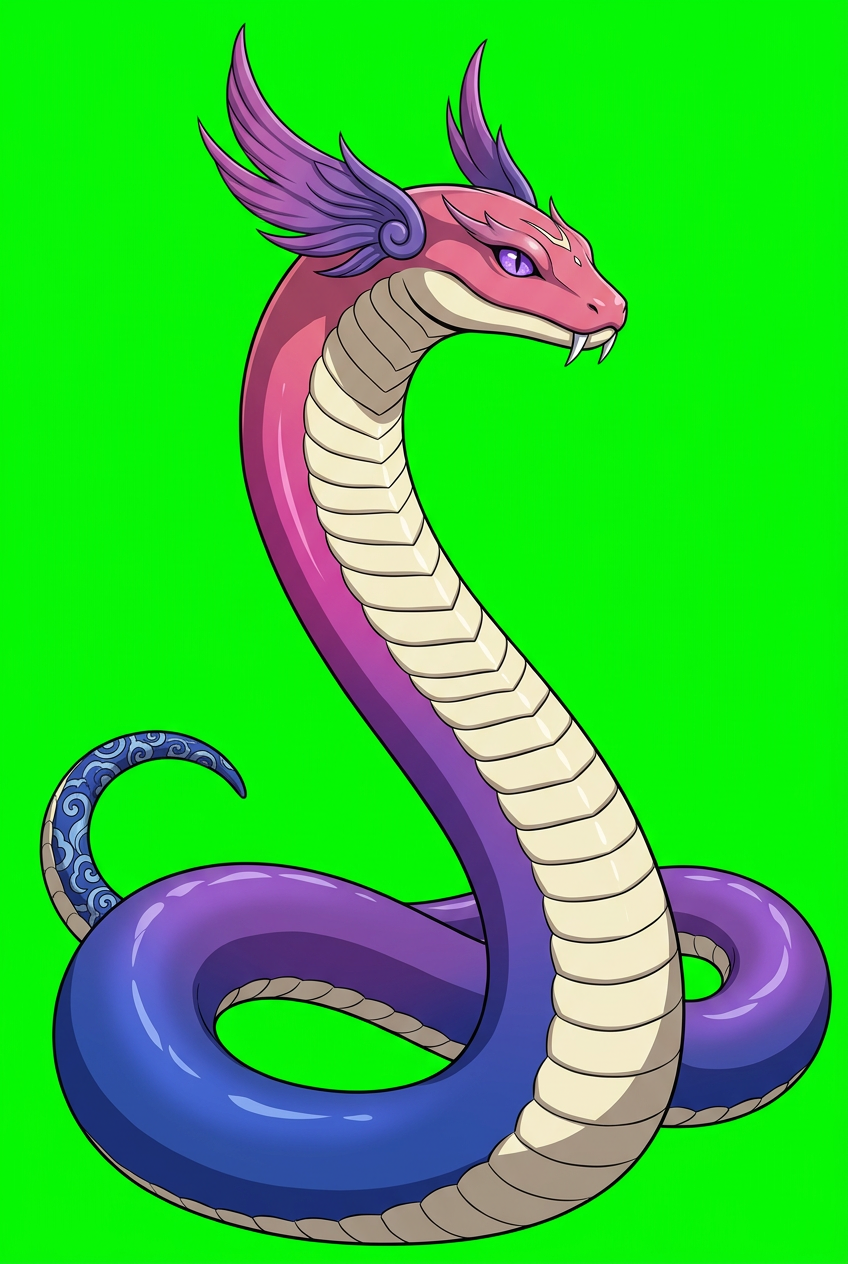
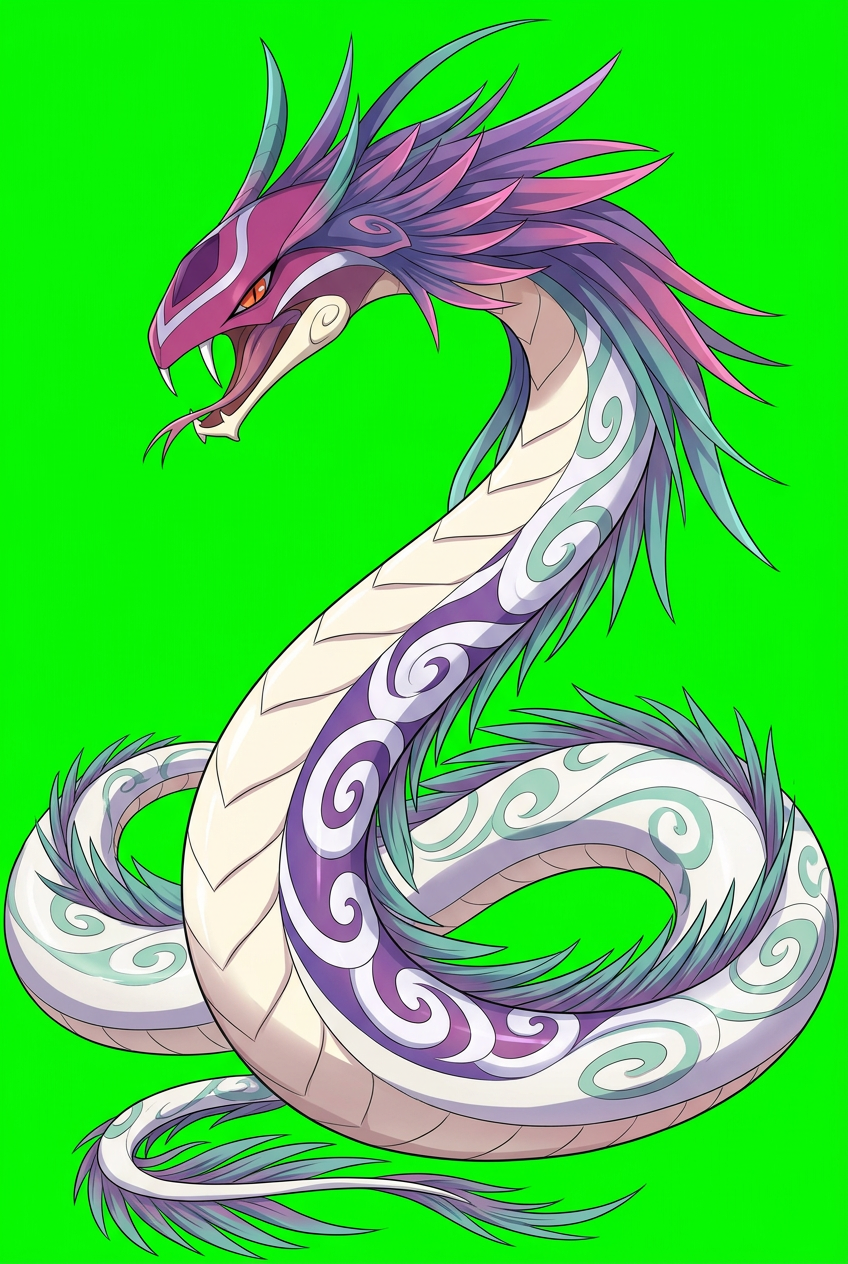
重画: 七彩吞天蟒巨蟒形态(漫画80/137话)

diff --git a/dev/design/漫画复核进度.md b/dev/design/漫画复核进度.md
@@ -64,6 +64,7 @@
 | 纳兰嫣然（Boss） | nalan | refs/nalan_manhua_c74/c75 | ✅ 一致（粉色高双马尾、白外套金肩章、红领结红百褶裙、白长靴） |
 | 美杜莎（第2章 Boss 形态1：蛇人女王） | medusa_boss（新） | 44-23, 47-02/08/19/22 | 🆕 按漫画新画（紫色面纱遮口鼻、金色冠饰+红金流苏、紫色宽袖长袍金饰绿宝石、金色长指甲套、下身淡紫粉色单条蛇尾） |
 | 美杜莎（人形/可玩 女王装） | medusa | refs/medusa_manhua_ch88（第88回封面） | ✅ 保留用户选定的 B 版（红长发、金冠、紫红长裙、人腿），用于云岚宗篇起的人形及可玩角色 |
+| 七彩吞天蟒（巨蟒形态，美杜莎 Boss 形态3） | b_python | 80-17/21（第80话 Giant-Sized Seven Colored Sky-Swallowing Serpent）、137-11/13 | ❌→已重画（原为蓝紫身体米色腹自设计；漫画为品红紫色头部+紫/粉/青色后掠鳍冠、红橙眼、奶白身体带紫色卷云纹与青色卷纹、背脊青绿紫色羽状鳍） |
 
 ## 用户决定（2026-09-27）
 - 魔兽山脉敌人：删掉 疾风狼/紫影魔狼/火纹魔狼，改用漫画中出现过的魔兽（白色魔猿 25-26、棕色獠牙巨兽 27-12、小医仙的巨鹰 24-19 等），每种按漫画画。

diff --git a/dev/design/Boss形态清单.md b/dev/design/Boss形态清单.md
@@ -18,7 +18,7 @@
 | Boss | 形态 1 | 形态 2 | 形态 3 |
 |---|---|---|---|
 | 穆蛇（沙之佣兵团） | ✅ 人形 | ⬜ 二阶段：斗气外放、狰狞 | — |
-| 美杜莎女王 | ✅ 蛇人女王（medusa_boss，47话：面纱+蛇尾，漫画中初登场即此相） | ✅ 人形女王（medusa，B版，88回） | ✅ **原著**：七彩吞天蟒（已有；小彩另作幼体） |
+| 美杜莎女王 | ✅ 蛇人女王（medusa_boss，47话：面纱+蛇尾，漫画中初登场即此相） | ✅ 人形女王（medusa，B版，88回） | ✅ 七彩吞天蟒巨蟒（b_python，按漫画80话/137话重画；小彩另作幼体） |
 | 青莲地心火 | ⬜ **原著**：地心岩浆中的青莲火种 | ⬜ 觉醒：莲瓣全开、青焰冲天的火灵 | — |
 | 纳兰嫣然（三年之约） | ✅ 人形 | ⬜ 二阶段：斗气化风、衣袂飞扬的全力状态 | — |
 | 云山 | ✅ 人形 | ⬜ **原著**：斗宗·斗气化翼 | — |
